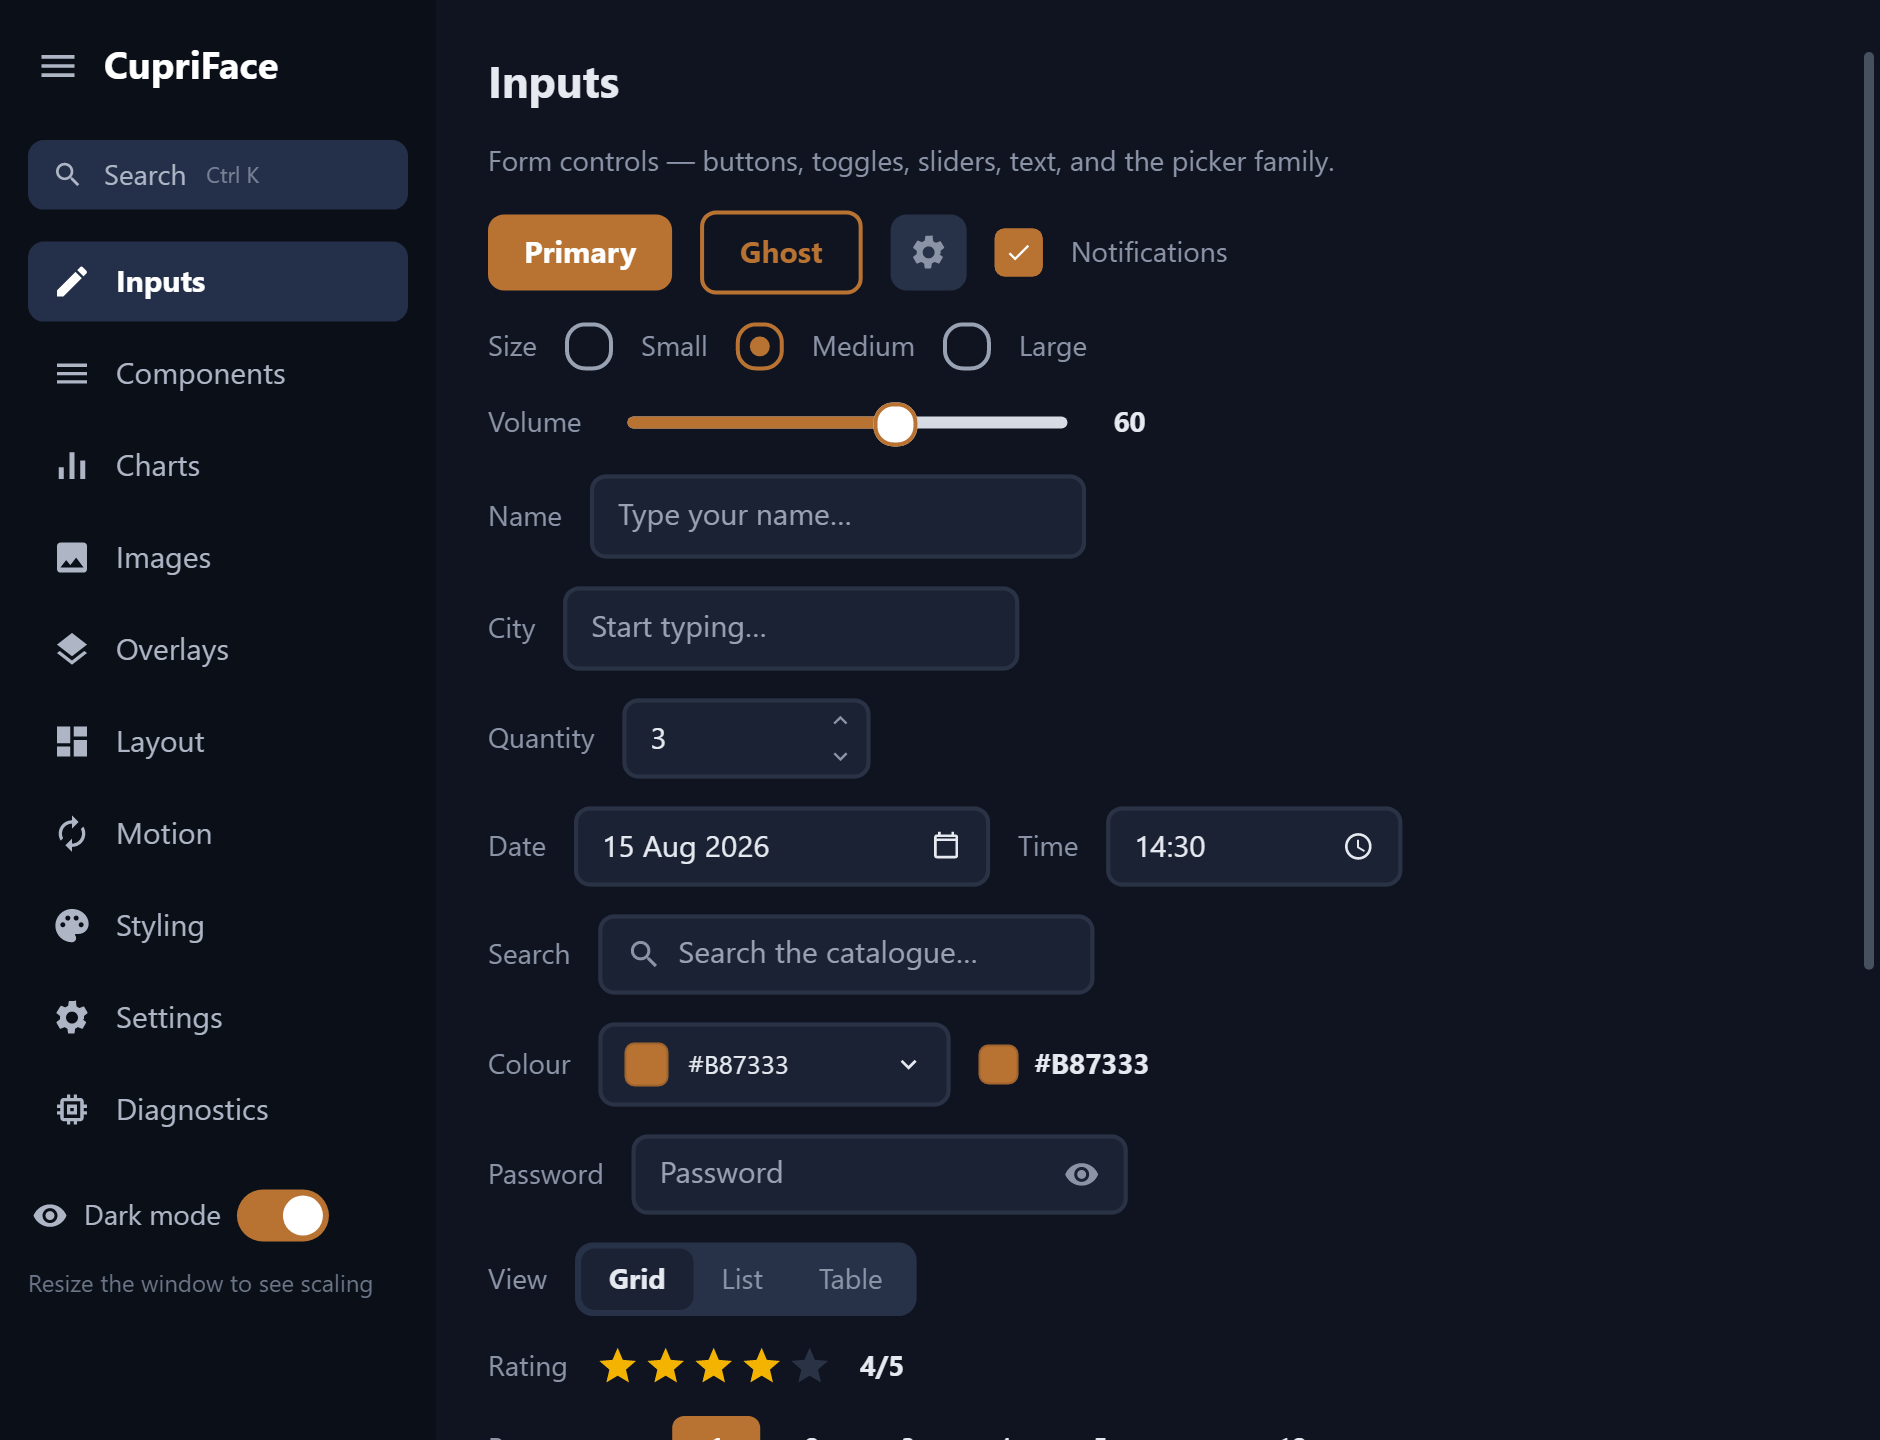
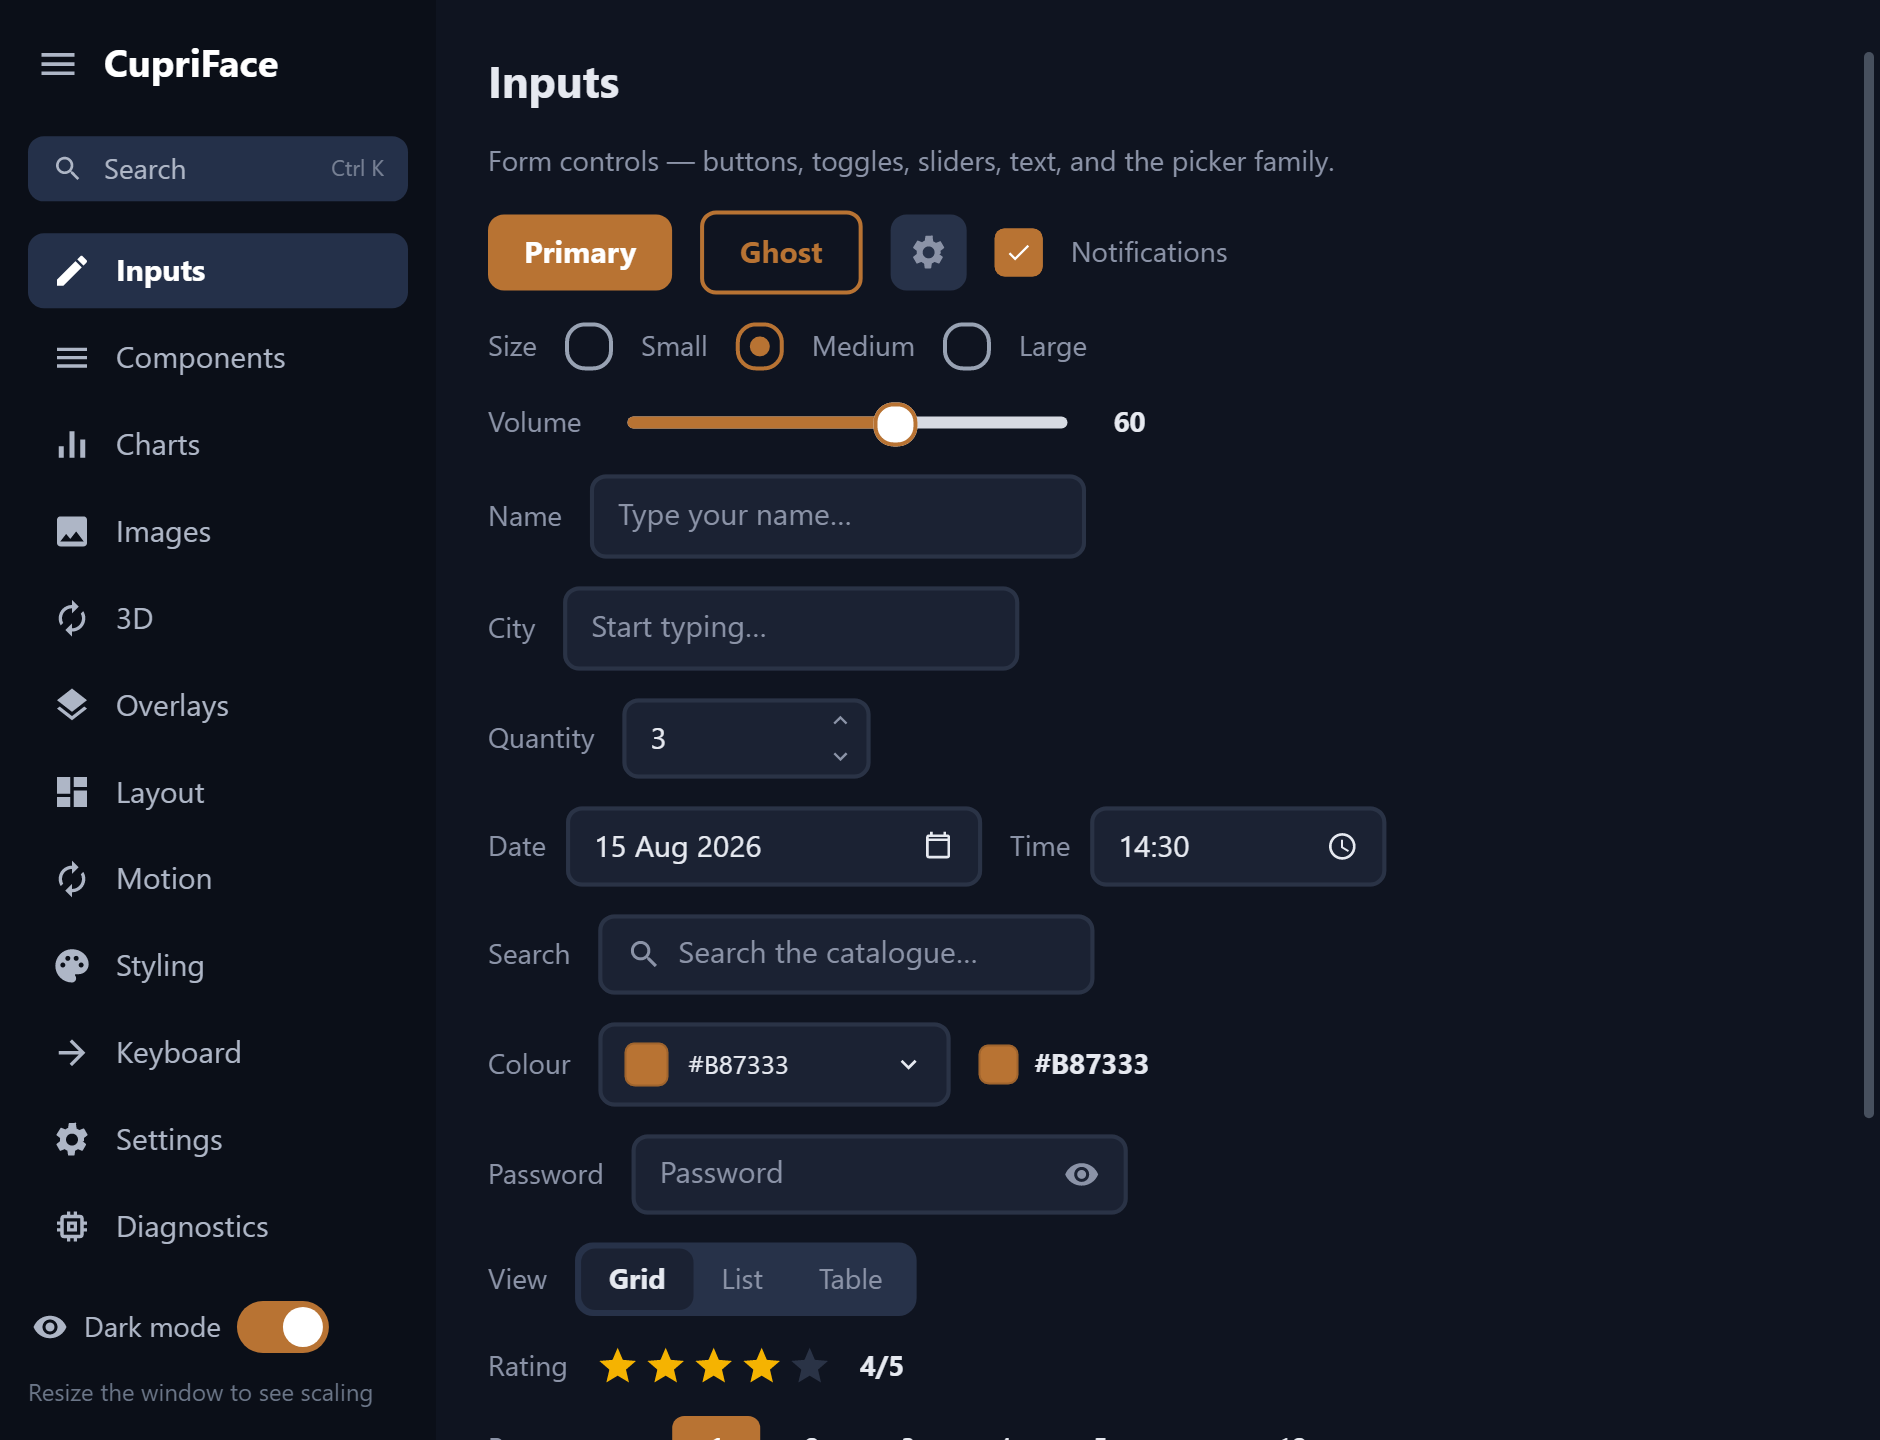
Refresh the README screenshots, and make them reproducible
The images were made by hand, so nobody could tell which release they showed or regenerate them
after a UI change. tools/Screenshots does it in one command, from the same document the hosts
render.

Adds the 3D page, which is the one worth showing: a glTF model on the GPU behind live UI at three
alphas, from the same ShowcaseApp markup that runs on desktop, in a browser and on a phone. The
feature list gains a "Live surfaces" entry, because ISurfaceSource and IGpuSurfaceSource were
nowhere in the README despite being the last two releases' headline.

HEADLESS IS THE SAFETY PROPERTY, not just a convenience. These are published, and a screen capture
can pick up a title bar, a file path, a stray window — RenderToImage can only draw the document.
Checked rather than assumed: the Showcase reads nothing from the environment (no Environment.*, no
paths, no machine or user names), Diagnostics is process metrics only, the input pages are
placeholders, and every committed image is free of tEXt/iTXt/zTXt/EXIF chunks, so there is no
author, software or path metadata riding along either.

Two things the first attempt got wrong, both caught by comparing against what was already committed:

- It captured at 1x. The existing images are 1880x1440, and RenderToImage(w*2, h*2) would have laid
  out a viewport twice as WIDE rather than painting the same one at twice the pixels — a different
  screenshot, not a sharper one. It now scales the canvas and lays out at logical size, as a host
[…]

diff --git a/tools/Screenshots/Program.cs b/tools/Screenshots/Program.cs
@@ -1,0 +1,115 @@
+using CupriFace;
+using CupriFace.Demo;
+using CupriFace.Dom;
+using CupriFace.Interaction;
+using SkiaSharp;
+
+// Regenerates docs/screenshots/*.png from the Showcase.
+//
+//   dotnet run --project tools/Screenshots
+//
+// HEADLESS ON PURPOSE. These are published in the README, so the safest way to produce them is one
+// that cannot capture anything but the document: no window, no title bar, no desktop behind it, no
+// file path in a caption. RenderToImage draws the same display list a host would and nothing else,
+// so a screenshot cannot leak a username, a machine name or whatever happened to be on screen —
+// which is exactly how such things get published by accident.
+//
+// The Showcase's own pages are all synthetic demo data. The two worth a second look are Diagnostics
+// (process metrics — RAM, GC counts, threads, uptime; no paths or identities) and 3D, which prints
+// the GPU string the driver reports. That one names the machine's graphics hardware, which is the
+// point of the row, and is checked by eye before committing.
+
+const int W = 940, H = 720;
+const int Scale = 2;      // the resolution the committed screenshots have always been
+var outDir = Path.Combine(FindRepoRoot(), "docs", "screenshots");
+Directory.CreateDirectory(outDir);
+
+// One page per shot. The 3D page needs a moment: its surface renders on a private context and
+// publishes frames asynchronously, so a capture taken immediately gets the empty panel.
+(string Section, string File, bool Dark, int WaitMs)[] shots =
+[
+    ("controls",   "inputs.png",       false, 0),
+    ("controls",   "inputs-dark.png",  true,  0),
+    ("components", "components.png",   false, 0),
+    ("charts",     "charts.png",       false, 0),
+    ("images",     "images.jpg",       false, 0),   // a photo page: JPEG, as it always was
+    ("3d",         "threed.png",       false, 4000),
+    ("overlays",   "overlays.png",     false, 0),
+    ("layout",     "layout.png",       false, 0),
+    ("motion",     "motion.png",       false, 0),
+    ("styling",    "styling.png",      false, 0),
+    ("settings",   "settings.png",     false, 0),
+    ("diag",       "diagnostics.png",  false, 600),
+];
+
+foreach (var (section, file, dark, waitMs) in shots)
+{
+    var app = new ShowcaseApp(section);
+    using var doc = app.CreateDocument();
+    if (app.Model is ShowcaseModel m) m.DarkMode = dark;
+
+    // The overlays page is worth showing with something actually open — a screenshot of the buttons
+    // that would open a dialog says less than the dialog.
+    if (section == "overlays" && app.Model is ShowcaseModel om) om.DialogOpen = true;
+
+    // The 3D page needs a surface attached, exactly as a host would at its composition root.
+    // Headless has no GRContext, so this takes the private-context readback path — the same one a
+    // software window uses, which is why it works here at all.
+    IDisposable? surface = null;
+    if (section == "3d") surface = CupriFace.Samples.Viewer.Teapot3dSurface.TryAttach(doc, _ => { });
+
+    doc.Refresh();
+    using (doc.RenderToImage(W, H)) { }          // first frame: lays out and warms images
+
+    if (waitMs > 0)
+    {
+        // Poll rather than sleep once: whichever finishes first, we stop waiting.
+        var until = DateTime.UtcNow.AddMilliseconds(waitMs);
+        while (DateTime.UtcNow < until)
+        {
+            // A HOST polls AnyTicking every frame, and a surface uses that poll to decide it is on
+            // screen and start producing. RenderToImage alone does not, so without this the 3D
+            // viewport renders an empty panel for ever — correct behaviour for a surface nobody
+            // asked to tick, and a blank screenshot.
+            _ = doc.Surfaces.AnyTicking;
+            using (doc.RenderToImage(W, H)) { }
+            Thread.Sleep(120);
+        }
+    }
+
+    using var img = Capture(doc, app, W, H, Scale);
+    // PNG for UI (flat colour, sharp text); JPEG for the page that is mostly a photograph, where
+    // PNG costs four times the bytes for no visible gain.
+    var jpeg = file.EndsWith(".jpg", StringComparison.OrdinalIgnoreCase);
+    using var data = img.Encode(jpeg ? SKEncodedImageFormat.Jpeg : SKEncodedImageFormat.Png, jpeg ? 88 : 95);
+    var path = Path.Combine(outDir, file);
+    using (var f = File.Create(path)) data.SaveTo(f);
+    surface?.Dispose();
+    Console.WriteLine($"{file,-20} {new FileInfo(path).Length / 1024,5} KB");
+}
+
+Console.WriteLine($"\nwrote {shots.Length} images to {outDir}");
+
+// Render at 2x: lay out at the logical size and paint into a surface of twice the pixels, with the
+// canvas scaled — which is what a host does on a HiDPI display. RenderToImage(w*2, h*2) would lay
+// out a viewport twice as WIDE instead, giving a different screenshot rather than a sharper one.
+// The committed images have always been 2x; capturing at 1x quietly halved the README's quality.
+static SKImage Capture(CupriDocument doc, CupriApp app, int logicalW, int logicalH, int scale)
+{
+    var info = new SKImageInfo(logicalW * scale, logicalH * scale, SKColorType.Rgba8888, SKAlphaType.Premul);
+    using var surface = SKSurface.Create(info);
+    var canvas = surface.Canvas;
+    canvas.Clear(app.Background);
+    canvas.Save();
+    canvas.Scale(scale);
+    doc.Render(canvas, logicalW, logicalH);
+    canvas.Restore();
+    return surface.Snapshot();
+}
+
+static string FindRepoRoot()
+{
+    var d = new DirectoryInfo(AppContext.BaseDirectory);
+    while (d is not null && !File.Exists(Path.Combine(d.FullName, "CupriFace.slnx"))) d = d.Parent;
+    return d?.FullName ?? throw new InvalidOperationException("repo root not found");
+}

diff --git a/samples/Viewer/Teapot3dSurface.cs b/samples/Viewer/Teapot3dSurface.cs
@@ -29,7 +29,7 @@ namespace CupriFace.Samples.Viewer;
 /// fix is a texture-backed SKImage over a context shared with the engine's, which needs the engine
 /// to expose its <c>GRContext</c> — worth doing, and not needed for a demo.</para>
 /// </summary>
-internal sealed class Teapot3dSurface : IGpuSurfaceSource, CupriFace.Demo.IShowcase3dInfo, IDisposable
+public sealed class Teapot3dSurface : IGpuSurfaceSource, CupriFace.Demo.IShowcase3dInfo, IDisposable
 {
     private readonly int _w, _h;
     private readonly Gltf _model;

diff --git a/README.md b/README.md
@@ -18,8 +18,12 @@ the developer guide to the `cupri-*` elements (bind them to a C# model, style th
 
 Every image below is the **same `ShowcaseApp` class** — one HTML file, one CSS file, one plain C#
 model ([samples/DemoApp](samples/DemoApp)) — drawn by the engine itself. No browser was involved in
-rendering *or* capturing them: they are `doc.Render()` output, produced headlessly at 2× by a
-throwaway harness, which is the same reason the UI is straightforward to unit-test.
+rendering *or* capturing them: they are `doc.Render()` output at 2×, regenerated by
+[`tools/Screenshots`](tools/Screenshots) (`dotnet run --project tools/Screenshots`), which is the
+same reason the UI is straightforward to unit-test.
+
+Headless is also why they are safe to publish: a screen capture can pick up a title bar, a file path
+or whatever else was on the desktop, whereas this can only draw the document.
 
 ![Inputs](docs/screenshots/inputs.png)
 
@@ -29,7 +33,8 @@ throwaway harness, which is the same reason the UI is straightforward to unit-te
 | <img src="docs/screenshots/images.jpg" alt="Images"><br>**Images** — `object-fit` modes in a corner-drag `resize: both` frame | ![Overlays](docs/screenshots/overlays.png)<br>**Overlays** — modal dialog over a real backdrop blur; drawers, popovers, toasts, context menus |
 | ![Layout](docs/screenshots/layout.png)<br>**Layout** — flexbox, CSS grid with spans, inline flow, draggable split panes | ![Motion](docs/screenshots/motion.png)<br>**Motion** — `@keyframes`, transforms and CSS transitions |
 | ![Styling](docs/screenshots/styling.png)<br>**Styling** — the cascade, variables, accent theming, shadows and borders | ![Settings](docs/screenshots/settings.png)<br>**Settings** — forms, validation, and the scaling modes |
-| ![Diagnostics](docs/screenshots/diagnostics.png)<br>**Diagnostics** — live frame timings and node counts | ![Dark mode](docs/screenshots/inputs-dark.png)<br>**Dark mode** — a CSS variable swap on `body.dark`, cross-faded by a `transition` |
+| ![3D](docs/screenshots/threed.png)<br>**3D** — a glTF model on the GPU behind live UI, at three alphas. The engine ships no renderer: it composites someone else's pixels | ![Diagnostics](docs/screenshots/diagnostics.png)<br>**Diagnostics** — live frame timings and node counts |
+| ![Dark mode](docs/screenshots/inputs-dark.png)<br>**Dark mode** — a CSS variable swap on `body.dark`, cross-faded by a `transition` | |
 
 Run it yourself with `dotnet run --project samples/Viewer` (desktop). The same app also runs in a
 browser on a `<canvas>` (no Blazor) via `samples/WebWasm`, and on a phone via
@@ -61,6 +66,14 @@ A fully-managed pipeline **parse → style → layout → paint → bind → com
   on the web host (no codecs in the wasm binary); on desktop the optional `CupriFace.Media`
   package plays WebM (VP9 + Opus) with decoders for every desktop RID in **one** package —
   build on any OS, run on any OS.
+- **Live surfaces** — anything can supply pixels for an element through `ISurfaceSource`: a video,
+  a camera, a 3D viewport. The engine ships **no** renderer and knows nothing about GL; it decides
+  only how those pixels reach the frame, and picks per host — *painted* into the display list where
+  it can, or *host-composited* through a transparent hole with a real `<canvas>` beneath the page on
+  the web. `IGpuSurfaceSource` lets a producer draw on the host's own GPU context and hand over a
+  texture, so the frame never leaves the GPU. Ordinary UI composites over it at any alpha, and the
+  [3D page](docs/screenshots/threed.png) above is the same `ShowcaseApp` markup on desktop, in a
+  browser and on a phone.
 
 ## Projects
 
